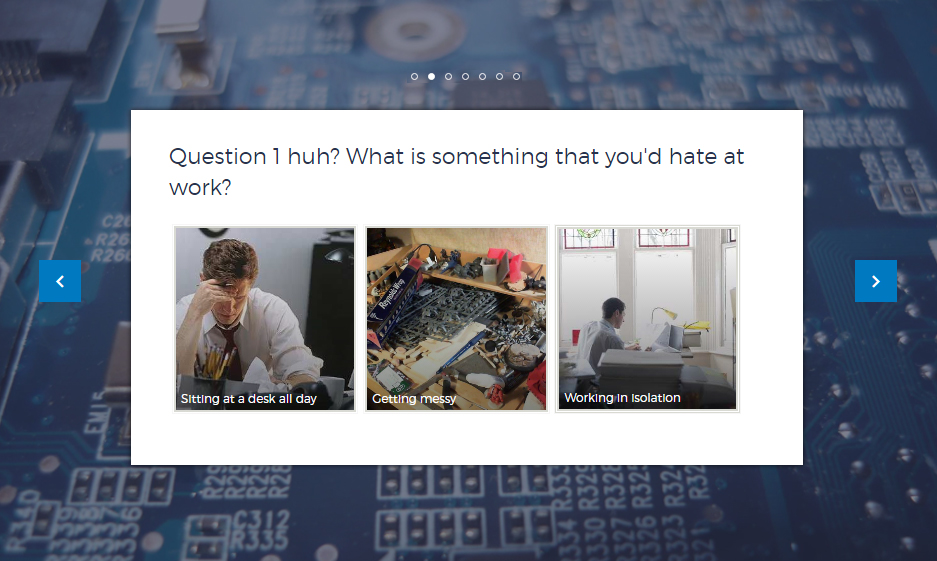
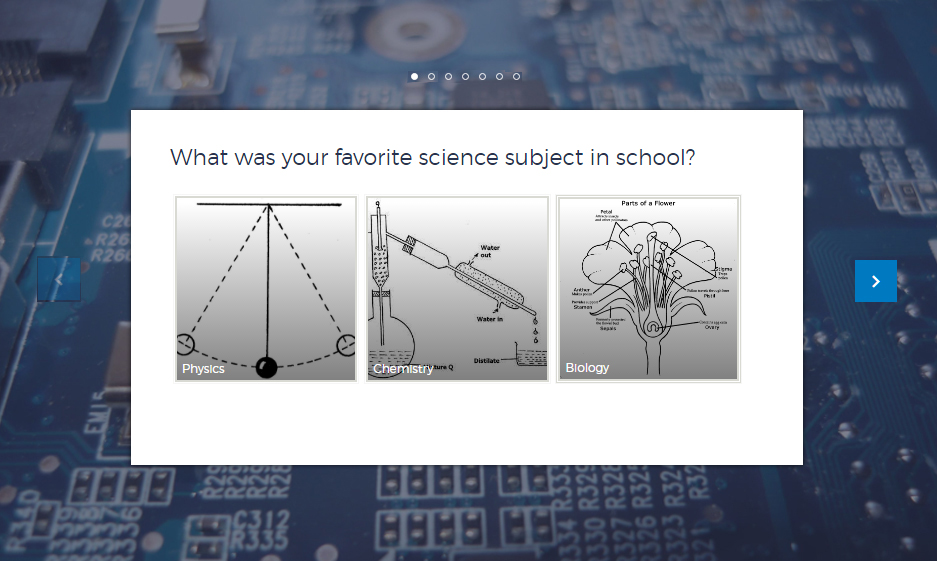
[Example 1 img]: add new img

Changed region(s): [[0.1857, 0.2424, 0.8047, 0.7576], [0.0309, 0.4545, 0.0928, 0.5455], [0.4333, 0.1212, 0.4642, 0.1515]]

diff --git a/index.html b/index.html
@@ -525,7 +525,7 @@
  						<div class="swiper-container box-shadow  mk-animate-element scale-up rs-show">
  							<div class="swiper-wrapper">
  								<div class="swiper-slide">
- 									<img src="images/em1-1.jpg" alt="" class="qode-lazy-image" />
+ 									<img src="images/em1-3.jpg" alt="" class="qode-lazy-image" />
  								</div>
  								<div class="swiper-slide">
  									<img src="images/em1-2.jpg" alt="" class="qode-lazy-image" />
@@ -543,7 +543,7 @@
  									/> </a>
  							</div>
  							<div class="card" style="background-color:#f3f3f3">
- 								<a href="//resources.outgrow.co/what-kind-of-engineer-you-should-be/ " target="_blank"> <img src="#" alt="" class="qode-lazy-image" data-image="images/em1-1.jpg"
+ 								<a href="//resources.outgrow.co/what-kind-of-engineer-you-should-be/ " target="_blank"> <img src="#" alt="" class="qode-lazy-image" data-image="images/em1-3.jpg"
  										style="width:1122px;height:1px" data-ratio="0.62566844919786" data-lazy="true"
  									/> </a>
  							</div>
